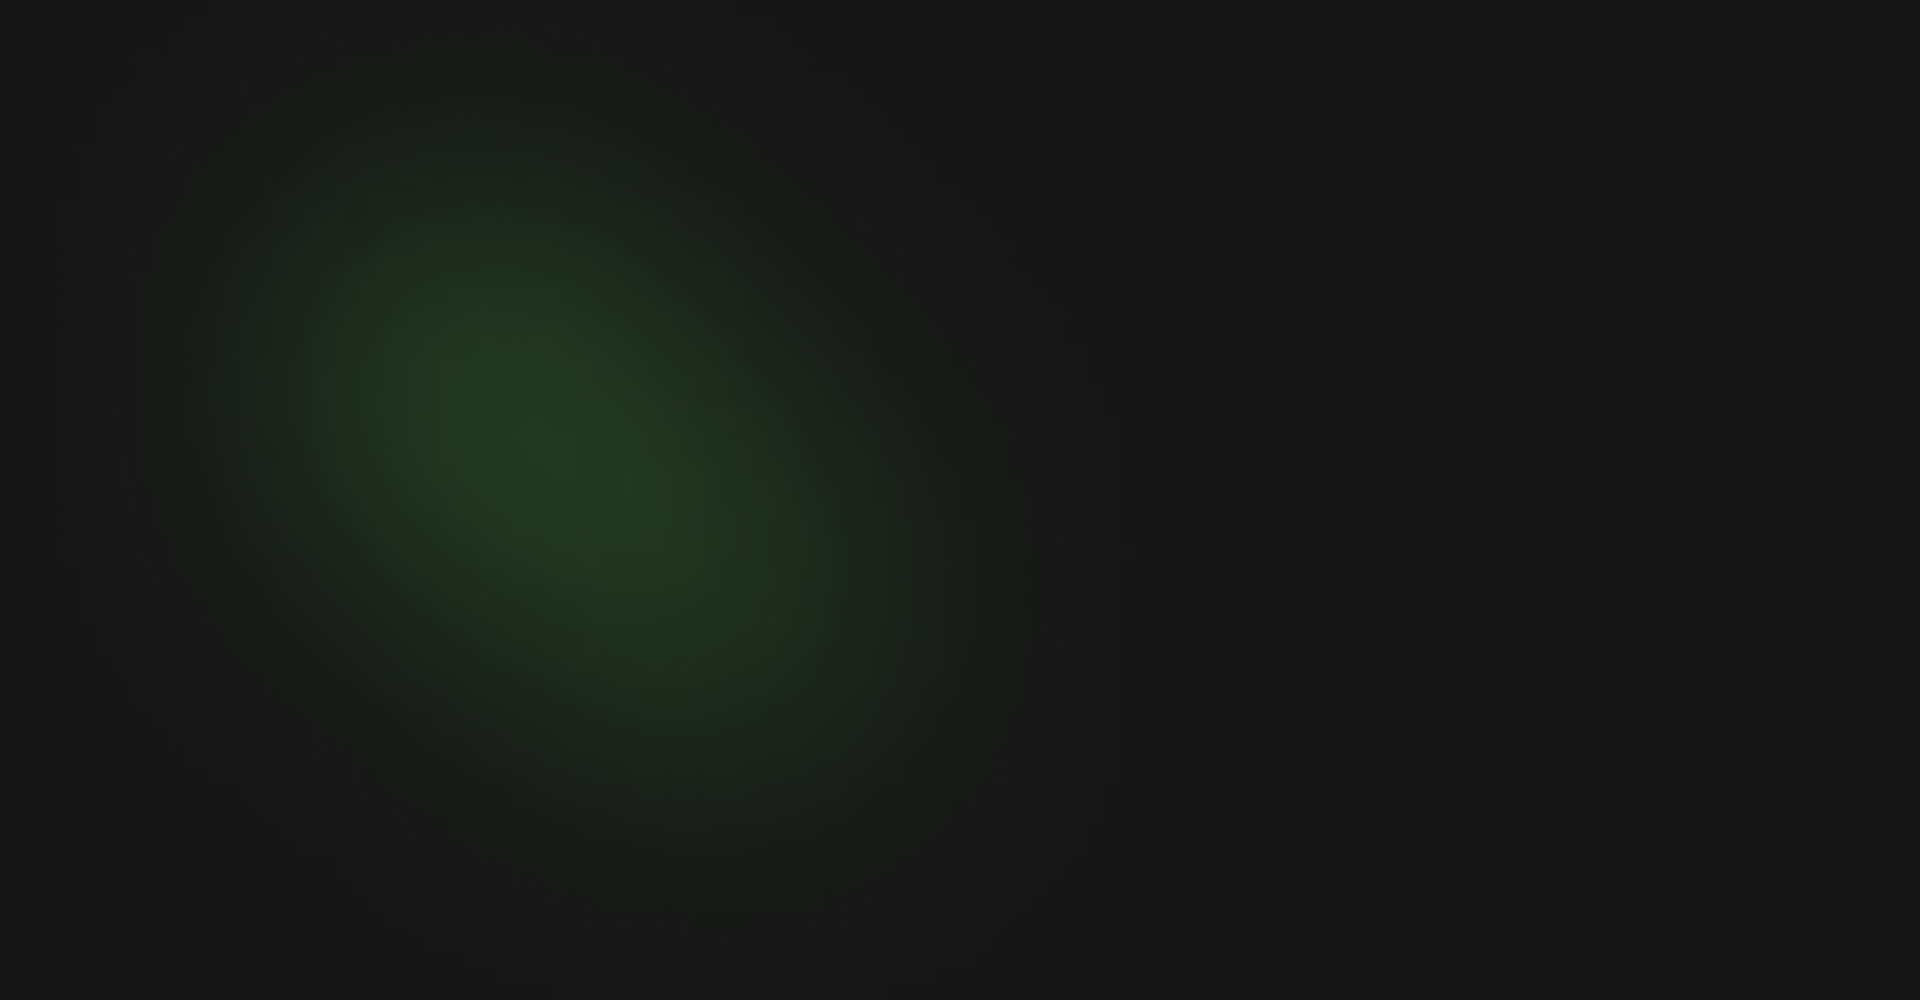
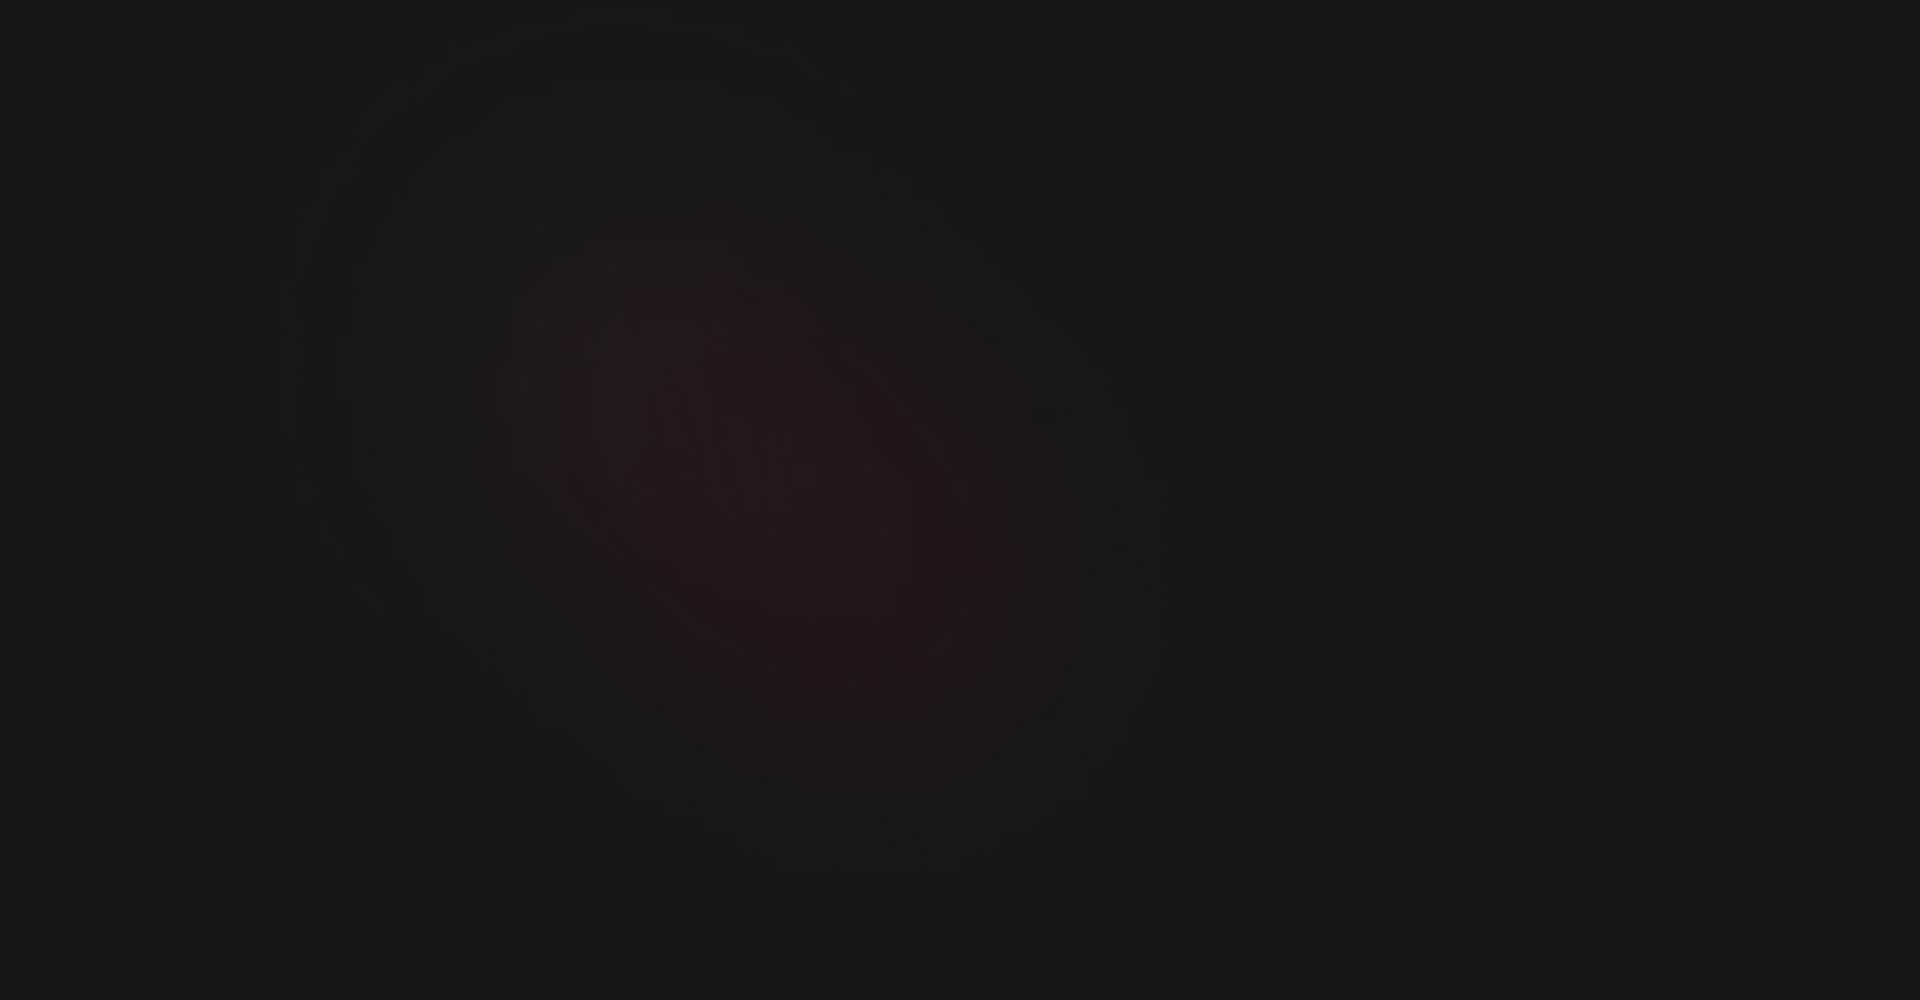
main photo and colors changed

Changed region(s): [[0.1875, 0.279, 0.4062, 0.651]]

diff --git a/src/components/SectionHero.tsx b/src/components/SectionHero.tsx
@@ -22,7 +22,7 @@ export function SectionHero() {
                     <p className="text-white font-light text-[3.5vw] xl:text-[1vw] lg:text-[1vw]">Seja bem-vindo ao meu site, espero que aqui encontre as informações que precisa para conhecer um pouco mais de mim e no meu trabalho!</p>
                     <a href="https://api.whatsapp.com/send?phone=5513996595151&text=Olá%20Enzo,%20gostei%20do%20seu%20portifólio!%20Quando%20podemos%20começar?" target="_blank">
                         <button className="
-                        text-white bg-primary-green flex rounded-md mt-10 mb-2 m-auto w-[80vw] max-w-[170px] justify-around px-[3.2vw] py-[2.5vw]
+                        text-white bg-primary-bordo flex rounded-md mt-10 mb-2 m-auto w-[80vw] max-w-[170px] justify-around px-[3.2vw] py-[2.5vw]
                         xl:px-[0.4vw] xl:py-[0.6vw] xl:mx-0 xl:my-7
                         lg:px-[0.4vw] lg:py-[0.6vw] lg:mx-0 lg:my-7">
                             Fale comigo <FontAwesomeIcon icon={faWhatsapp} size="1x" className="max-w-[20px]" />

diff --git a/tailwind.config.js b/tailwind.config.js
@@ -15,6 +15,8 @@ module.exports = {
       'secundary-gray': '#242424',
       'opacity-gray': 'rgb(94, 94, 94, 0.18);',
       'primary-green': '#1FA51B',
+      'primary-brown': '#291D21',
+      'primary-bordo': '#461B29',
     }
     },
   },
